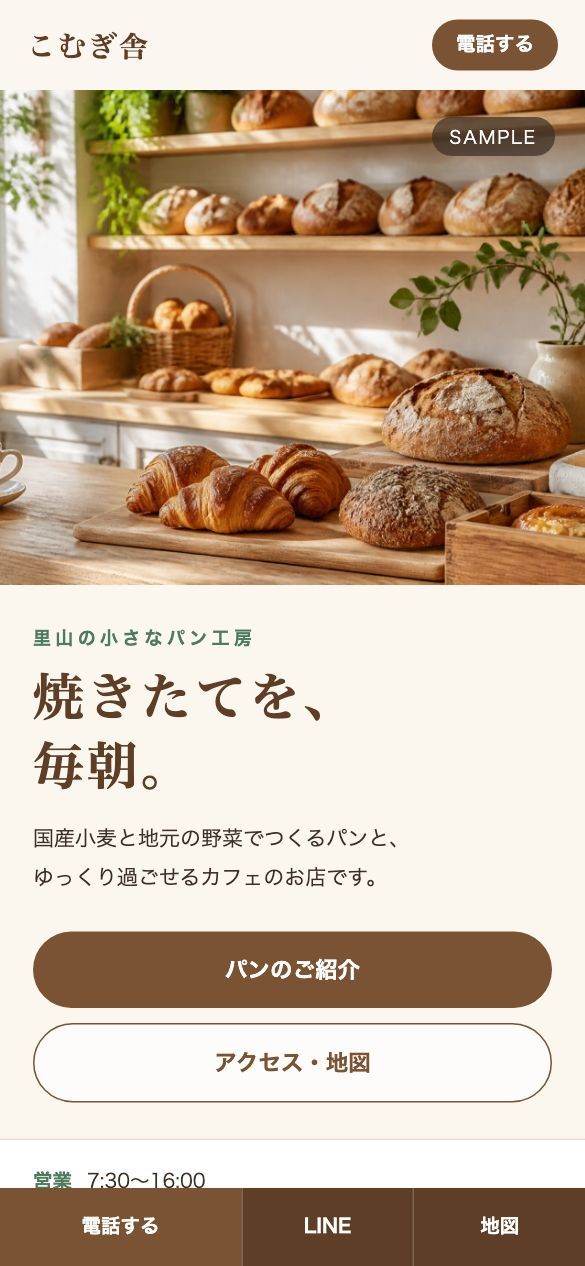
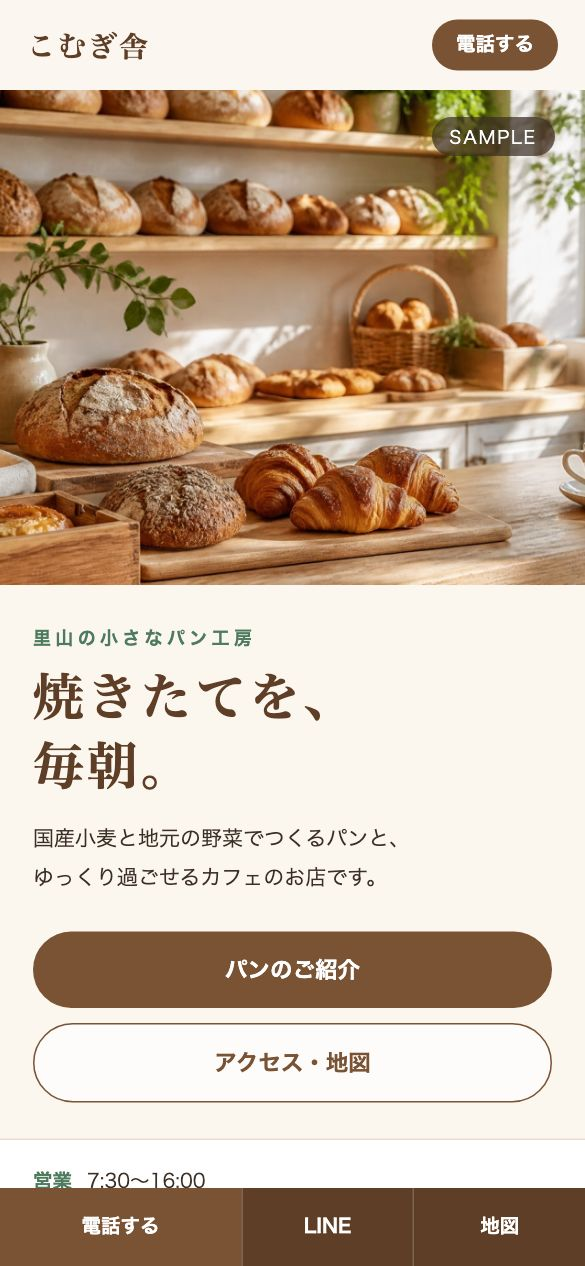
fix: 制作イメージの見出しがスマホ枠に隠れないよう右側に移し、ラベルを制作実績と区別する
PC表示ではスマホ枠がPC画面の左側に重なるため、架空のお店の写真を左右反転し見出しを右側に置く。
「制作イメージ」ラベルは制作実績の緑と区別し、控えめなグレー（コントラスト5.4:1）にする。

diff --git a/index.html b/index.html
@@ -233,7 +233,7 @@
               <img src="assets/hero/sample-shop.jpg" alt="" width="1280" height="800">
             </div>
             <div class="device-sp"><img src="assets/hero/sample-shop-sp.jpg" alt="" width="585" height="1266"></div>
-            <p class="hero-visual-tag"><span>制作イメージ</span>架空のお店のホームページ例</p>
+            <p class="hero-visual-tag is-sample"><span>制作イメージ</span>架空のお店のホームページ例</p>
           </div>
 
           <div class="hero-price" aria-label="ホームページ制作の料金">
@@ -260,7 +260,7 @@
           <div class="device-sp">
             <img src="assets/hero/sample-shop-sp.jpg" alt="架空のパン屋さんのホームページ例（スマートフォン表示）" width="585" height="1266">
           </div>
-          <p class="hero-visual-tag"><span>制作イメージ</span>架空のお店のホームページ例</p>
+          <p class="hero-visual-tag is-sample"><span>制作イメージ</span>架空のお店のホームページ例</p>
         </div>
       </div>
     </section>

diff --git a/styles.css b/styles.css
@@ -237,6 +237,8 @@ p, li, dd, figcaption { line-break: strict; text-wrap: pretty; }
 }
 .hero-mini { display: none; }
 .hero-visual-tag span { padding: 2px 10px; border-radius: 999px; background: var(--green); color: #fff; font-size: 0.78rem; }
+/* 架空のお店の制作イメージは、制作実績（緑）と区別して控えめなグレーにする */
+.hero-visual-tag.is-sample span { background: var(--bg-deep); color: var(--text-sub); border: 1px solid var(--line-strong); }
 
 /* ============================================
    PLACEHOLDER（差し替え予定の写真）
